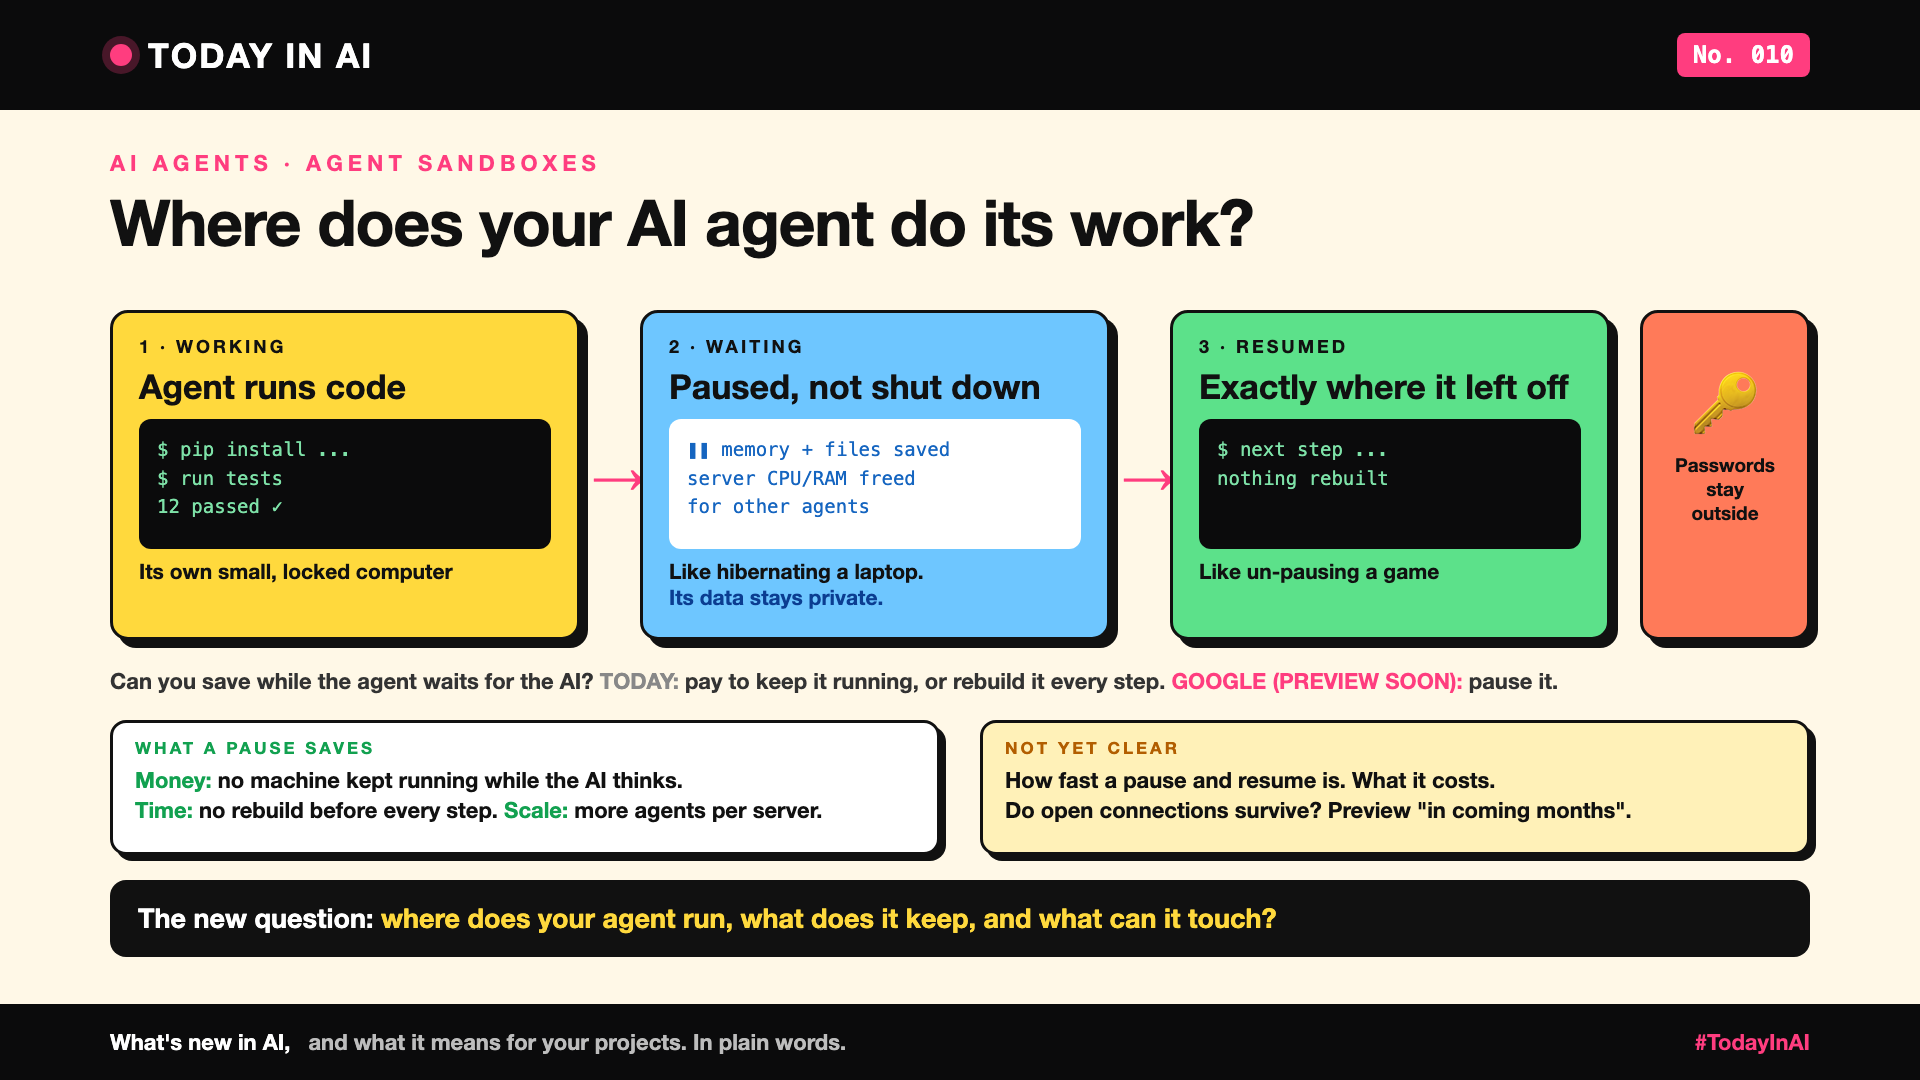
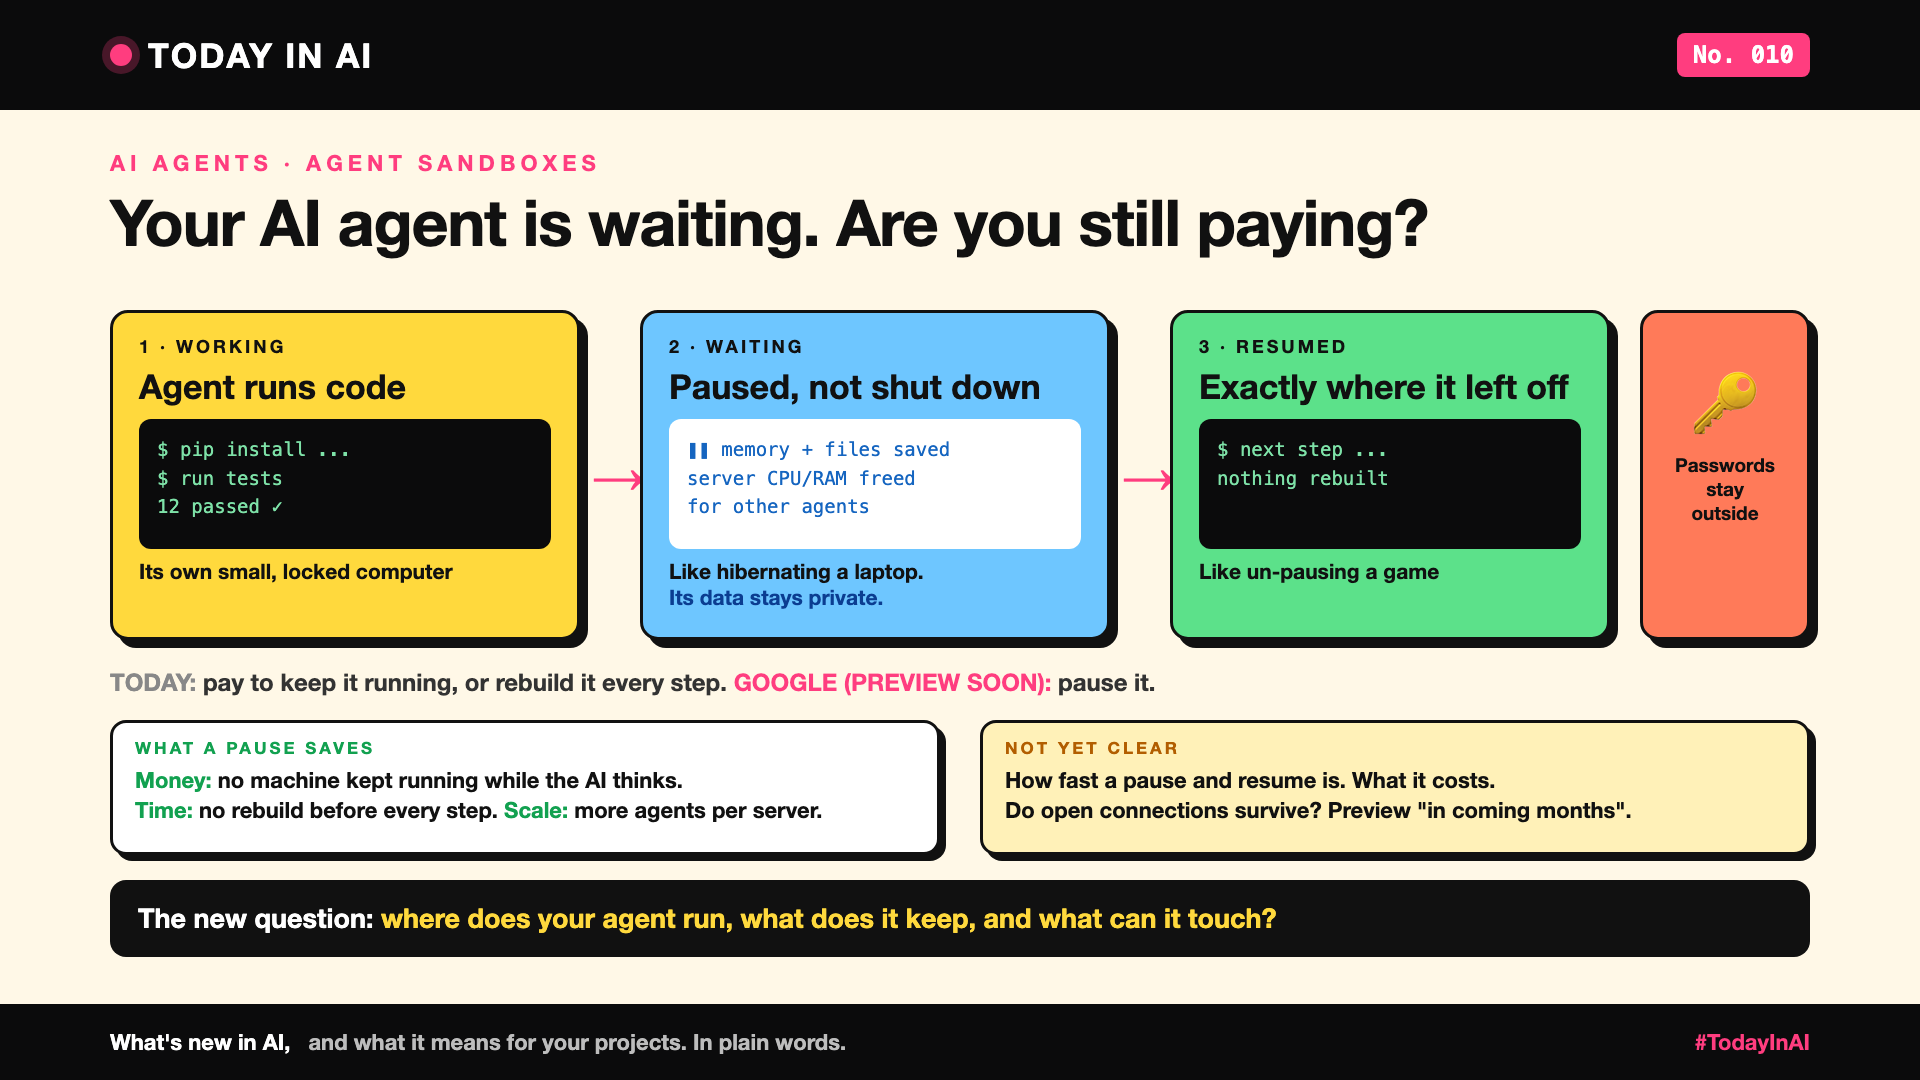
Today in AI 010: new title 'Your AI agent is waiting. Are you still paying?'

Changed region(s): [[0.0625, 0.1833, 0.75, 0.2444], [0.0625, 0.6111, 0.8125, 0.6417]]

diff --git a/20-today-in-ai/README.md b/20-today-in-ai/README.md
@@ -48,7 +48,7 @@
 | 007 | [Should every question go to your most expensive AI? \| Meet AI routers](007-ai-routers.md) | AI routers (Vela 2.0) | [Published](https://www.linkedin.com/pulse/today-ai-007-should-every-question-go-your-most-expensive-arpit-jain-xjexf) 14 October 2026 |
 | 008 | [Does using AI make you give up faster? \| AI and learning](008-give-up-faster.md) | Study: AI help lowers persistence once the AI is gone; hints may not | [Published](https://www.linkedin.com/pulse/today-ai-008-does-using-make-you-give-up-faster-learning-arpit-jain-ppghf/) 14 October 2026 |
 | 009 | [Same AI, many clouds. Where does your data actually go? \| In-country AI](009-same-ai-many-clouds.md) | Claude and OpenAI models now on every big cloud; in-country inference in India on Amazon Bedrock | [Published](https://www.linkedin.com/pulse/today-ai-009-same-many-clouds-where-does-your-data-actually-jain-zgc1f) 23 October 2026 |
-| 010 | [Where does your AI agent do its work? \| Agent sandboxes](010-agent-sandboxes.md) | Google's Agent Compute Engine: a paused, isolated computer for each agent | Draft |
+| 010 | [Your AI agent is waiting. Are you still paying? \| Agent sandboxes](010-agent-sandboxes.md) | Google's Agent Compute Engine: a paused, isolated computer for each agent | Draft |
 | 011 | [Would you send your AI twin to a job interview? \| AI twins in hiring](011-ai-twin-interview.md) | AI twins that recruiters question before a real interview | Draft |
 
 Sources for each write-up are listed inside the write-up, under "References and credits".

diff --git a/20-today-in-ai/011-ai-twin-interview.md b/20-today-in-ai/011-ai-twin-interview.md
@@ -69,7 +69,7 @@ Credit to Fortune for the reporting. Facts in this write-up come from this repor
 - [No. 007: Should every question go to your most expensive AI?](https://www.linkedin.com/pulse/today-ai-007-should-every-question-go-your-most-expensive-arpit-jain-xjexf)
 - [No. 008: Does using AI make you give up faster?](https://www.linkedin.com/pulse/today-ai-008-does-using-make-you-give-up-faster-learning-arpit-jain-ppghf/)
 - [No. 009: Same AI, many clouds. Where does your data actually go?](https://www.linkedin.com/pulse/today-ai-009-same-many-clouds-where-does-your-data-actually-jain-zgc1f)
-- No. 010: Where does your AI agent do its work? *(link added when published)*
+- No. 010: Your AI agent is waiting. Are you still paying? *(link added when published)*
 
 **Tags:** #AI #Hiring #FutureOfWork #HRTech #TodayInAI
 

diff --git a/20-today-in-ai/010-agent-sandboxes.md b/20-today-in-ai/010-agent-sandboxes.md
@@ -1,4 +1,4 @@
-# Today in AI, No. 010: Where Does Your AI Agent Do Its Work? | Agent Sandboxes
+# Today in AI, No. 010: Your AI Agent Is Waiting. Are You Still Paying? | Agent Sandboxes
 
 ![Cover](images/010-agent-sandboxes-cover.png)
 
@@ -83,7 +83,7 @@ Credit to the Google Cloud team for a clear write-up of the design, and to the F
 **Post text (copy and paste):**
 
 ```
-Where does your AI agent do its work?
+Your AI agent is waiting. Are you still paying?
 
 Today: on a laptop, in a container rebuilt every step, or a machine left running while the agent waits.
 
